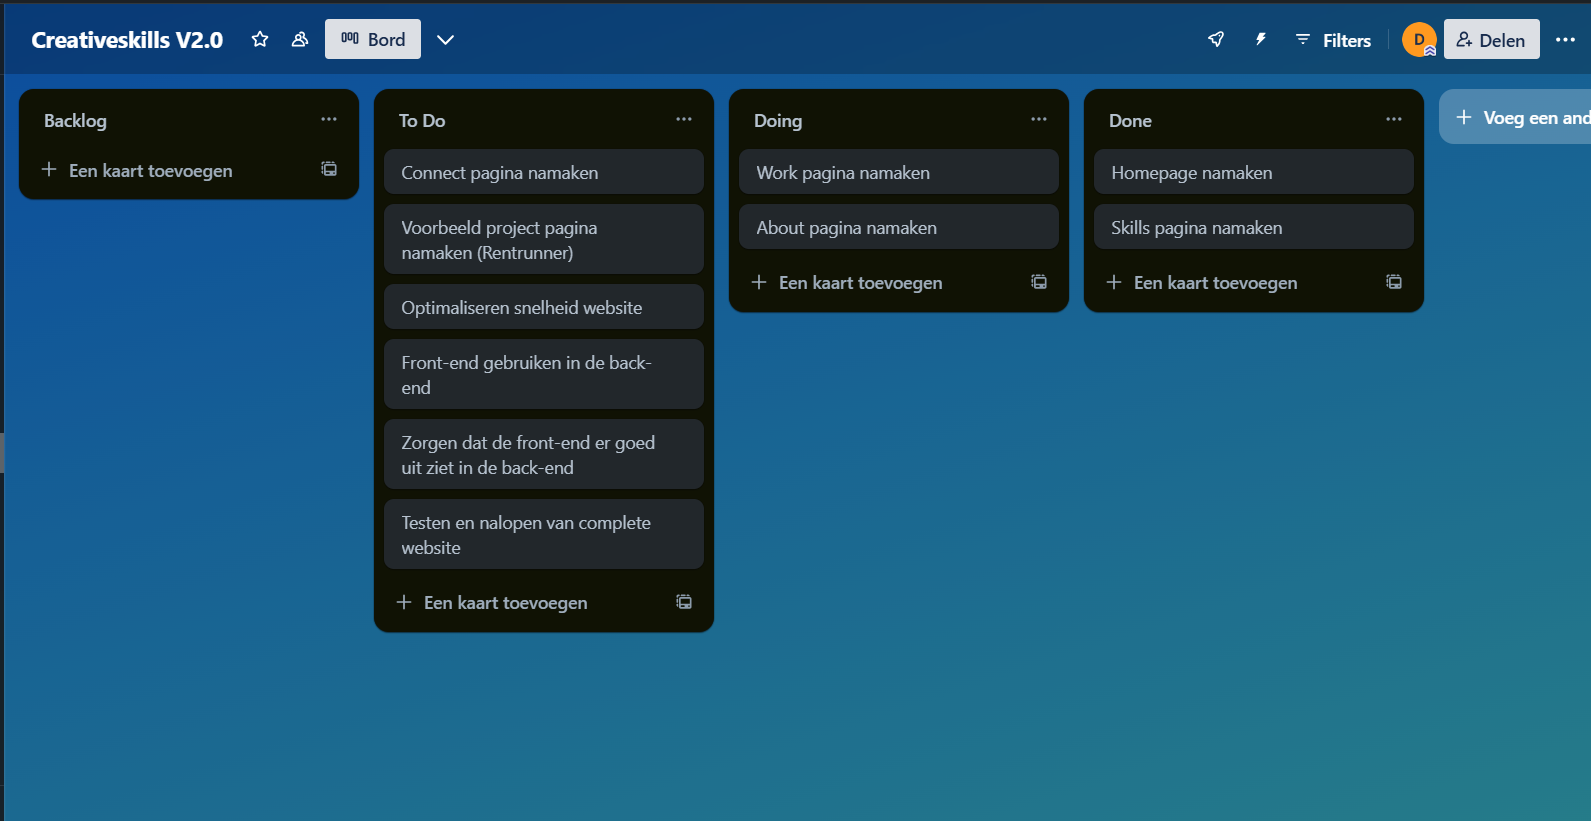
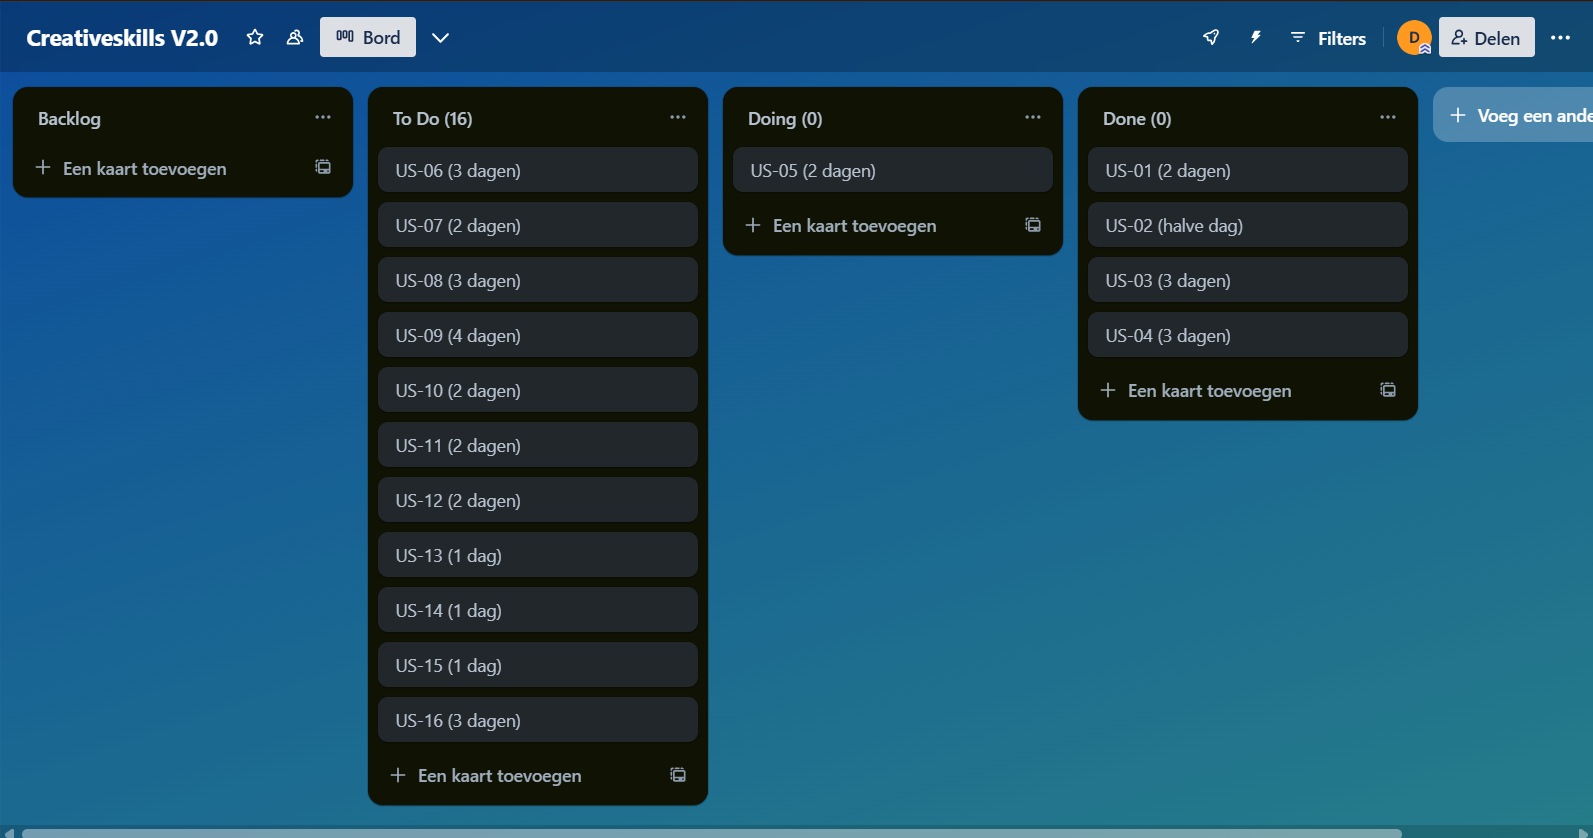
opdarcht 1 compleet verbeterd volgends feedback, duidelijkere user stories en betere planning

Changed region(s): [[0.0, 0.0, 1.0, 1.0], [0.9855, 0.9744, 1.0, 1.0]]

diff --git a/opdrachten/opdracht-1/opdracht-1.md b/opdrachten/opdracht-1/opdracht-1.md
@@ -84,7 +84,7 @@ Tijdens de ontwikkeling van de website zullen verschillende moderne webtechnolog
 ---
 
 ## **Planning van dit project**
-Tijdens het project is er gewerkt met de scrum-methode. In totaal zijn er vier sprints uitgevoerd, elk met een duur van twee weken. Voorafgaand aan het project hebben we een scrumboard opgesteld waarin de globale indeling en taken per sprint zijn bepaald. Hieronder worden de vier sprints kort toegelicht, inclusief een afsluitende terugblik met het eindbord.
+Tijdens het project is er gewerkt met de scrum-methode. In totaal zijn er vier sprints uitgevoerd, elk met een duur van twee weken. Voorafgaand aan het project hebben we een scrumboard opgesteld waarin de globale indeling en taken per sprint zijn bepaald. Hieronder worden de vier sprints kort toegelicht. In totaal zijn er iets minder dagen aan taken dan in de 8 weken die er zijn ingeplanned. Dit heb ik zo gedaan aangezien ik rekening heb gehouden met schoolprojecten die ik naast dit project moet doen of bijvoorbeeld een examen. Ook lijkt dit me slimmer aangezien ik met Laravel ga werken en daar heb ik nog helemaal geen ervaring in, dit geeft me tijd om dat goed te kunnen leren en begrijpen wat ik doe.
 
 | Sprint 1 | Sprint 2 | Sprint 3 | Sprint 4 |
 | -------- | -------- | -------- | -------- |
@@ -95,34 +95,30 @@ Tijdens het project is er gewerkt met de scrum-methode. In totaal zijn er vier s
 
 ### **Vooraf – Scrumboard Planning**
 ![Scrumboard Vooraf](images/begin-scrumboard.png)
-Aan het begin van het project is het scrumboard ingevuld met een initiële taakverdeling over de sprints. Hierbij hebben we de belangrijkste features en prioriteiten verdeeld, met een logische volgorde van front-end naar back-end, en daarna contentbeheer.
+Aan het begin van het project is het scrumboard ingevuld met een initiële taakverdeling over de sprints. Hierbij hebben we de belangrijkste features en prioriteiten verdeeld, met een logische volgorde van front-end naar back-end.
 
 ---
 
 ### **Sprint 1: Opzet en structuur**
 ![Scrumboard sprint 1](images/sprint-1.png)
-In de eerste sprint lag de focus op het opzetten van de projectstructuur, het inrichten van de ontwikkelomgeving, en het ontwikkelen van de eerste componenten. Ook is gestart met de implementatie van de basisstyling en mobile responsiveness.
+In de eerste sprint lag de focus op het opzetten van de projectstructuur, het inrichten van de ontwikkelomgeving, en het ontwikkelen van de eerste componenten. Het maken van de user stories 1 & 2 (herbruikbare content & foto blokken) ging sneller dan verwacht en had ik binnen 2 dagen al af, het maken van user story 3 ging iets minder soepel en heb ik iets langer over gedaan dat duurde namelijk 4 dagen. US-04 is wel erg soepel verlopen en heb ik mooi binnen de tijd af kunnen maken. Helaas omdat US-03 iets langer duurde ben ik nog bezig met US-05
 
 ---
 
 ### **Sprint 2: Front-end uitbreiding**
 ![Scrumboard sprint 2](images/sprint-2.png)
-Tijdens sprint 2 zijn we verder gegaan met het uitwerken van de visuele componenten. De layout is verfijnd volgens het ontwerp, en de mobiele versie van de site is verder geoptimaliseerd. Alle pagina's zijn uitgewerkt met behulp van de herbruikbare componenten uit sprint 1.
+Tijdens sprint 2 zijn we verder gegaan met het uitwerken van de visuele componenten. De layout is verfijnd volgens het ontwerp, en de mobiele versie van de site is verder geoptimaliseerd. Alle pagina's zijn uitgewerkt met behulp van de herbruikbare componenten uit sprint 1. Ik heb in deze sprint de kleine achterstand ingehaald. Eigenlijk liep alles na US-06 helemaal op schema, US-09 wist ik van te voren dat hij waarschijnlijk niet helemaal in deze sprint afgemaakt kon worden. Hier voor heb ik een collega gevraagd of hij me voor een deel kon helpen zodat ik in sprint 3 nog maar een klein deel hoef te doen.
 
 ---
 
 ### **Sprint 3: Back-end en contentbeheer**
 ![Scrumboard sprint 3](images/sprint-3.png)
-In sprint 3 is de focus verschoven naar de back-end: er is gewerkt aan het opzetten van het content management systeem (CMS) en de eerste connecties zijn gelegd tussen front-end en back-end. Ook zijn tests uitgevoerd op de laadtijd en performance van de website.
+In sprint 3 is de focus verschoven naar de back-end: er is gewerkt aan het opzetten van het content management systeem (CMS) en de eerste connecties zijn gelegd tussen front-end en back-end. Ook zijn tests uitgevoerd op de laadtijd en performance van de website. Ik ben deze sprint begonnen met het snel afmaken van US-09, dit duurde nog 1 dag. Omdat ik niet zeker wist of ik het allemaal ging halen binnen de afgesproken tijd heb ik US-10 even links laten liggen en afgesproken dat ik die zou doen als er tijd over is aan het einde. Vanaf dit punt kon ik gaan beginnen met het back-end gedeelte voor de website in Laravel Blade, hiervoor moesten we het backend gedeelte installeren op mijn laptop. Dat ging echter niet zo soepel helaas en ben ik met hulp van collega's 2 dagen mee bezig geweest. Hierna kon ik gelukkig wel gelijk aan de slag. Aangezien ik nog nooit met Laravel Blade had gewerkt ging het in het begin minder snel dan ik had verwacht. Ik heb US-11 af kunnen maken, alleen was ik daarna ziek. Ik heb nog wel een begin kunnen maken aan US-12.
 
 ---
 
 ### **Sprint 4: Optimalisatie en afronding**
 ![Scrumboard sprint 4](images/sprint-4.png)
-De laatste sprint stond in het teken van afronding en optimalisatie. Feedbackmomenten zijn verwerkt, laadtijden zijn verbeterd en het beheer van content is vereenvoudigd. Ook is er gezorgd voor een responsive eindresultaat dat op verschillende apparaten getest is.
+De laatste sprint stond in het teken van afronding en optimalisatie. Feedbackmomenten zijn verwerkt en het beheer van content is vereenvoudigd. Ik ben begonnen met US-12 afmaken en dat verliep gelukkig soepel, US-13 en US-14 gingen ook goed en heb ik binnen de geplande tijd af kunnen maken. Daarna heb ik in de laatste week nog US-15 en US-16 af kunnen maken. Ik kwam er achter dat ik nog wel tijd had om US-10 te maken dus die heb ik toen ook gemaakt. Daarna heb ik nog met de disigner gezeten om de laatste kleine puntjes te bespreken die nog moeten gebeuren en die heb ik aangepast.
 
 ---
-
-### **Na afloop – Eindbord**
-![Scrumboard Na afloop](images/eind-scrumboard.png)
-Na de laatste sprint zijn alle taken geverifieerd en afgerond. Het eindbord laat zien dat de belangrijkste user stories succesvol zijn geïmplementeerd. Er is ook ruimte geweest voor het verwerken van feedback en het uitvoeren van tests. Het project is binnen de gestelde tijd afgerond.
